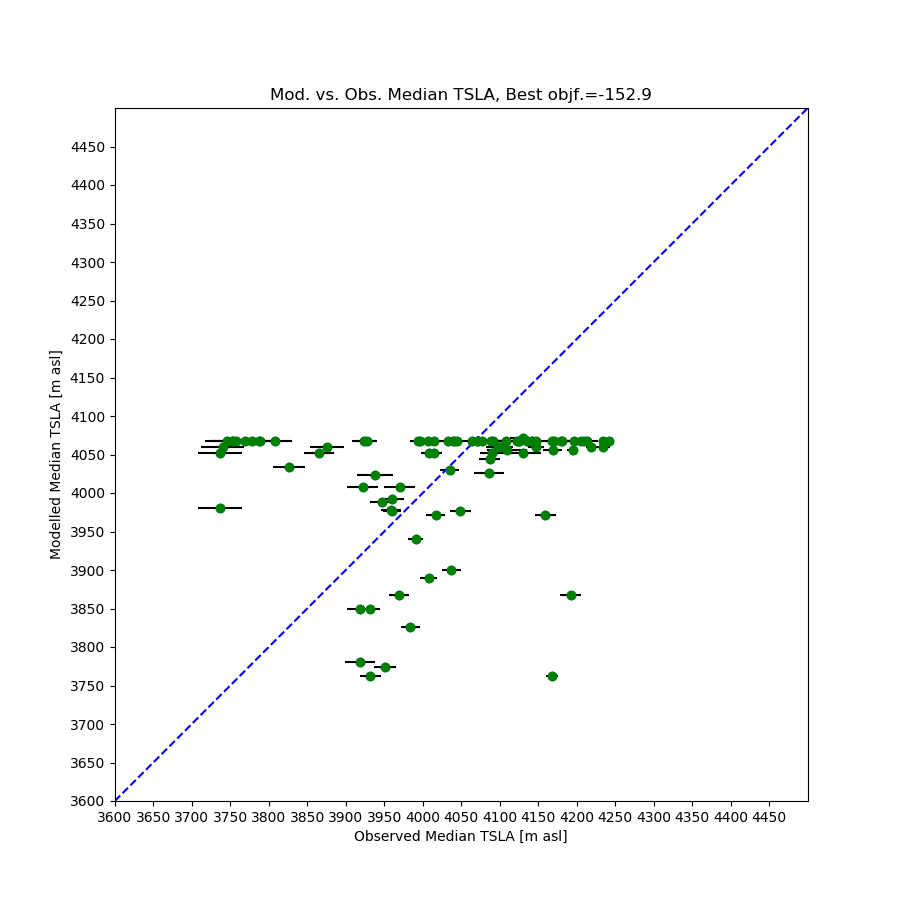
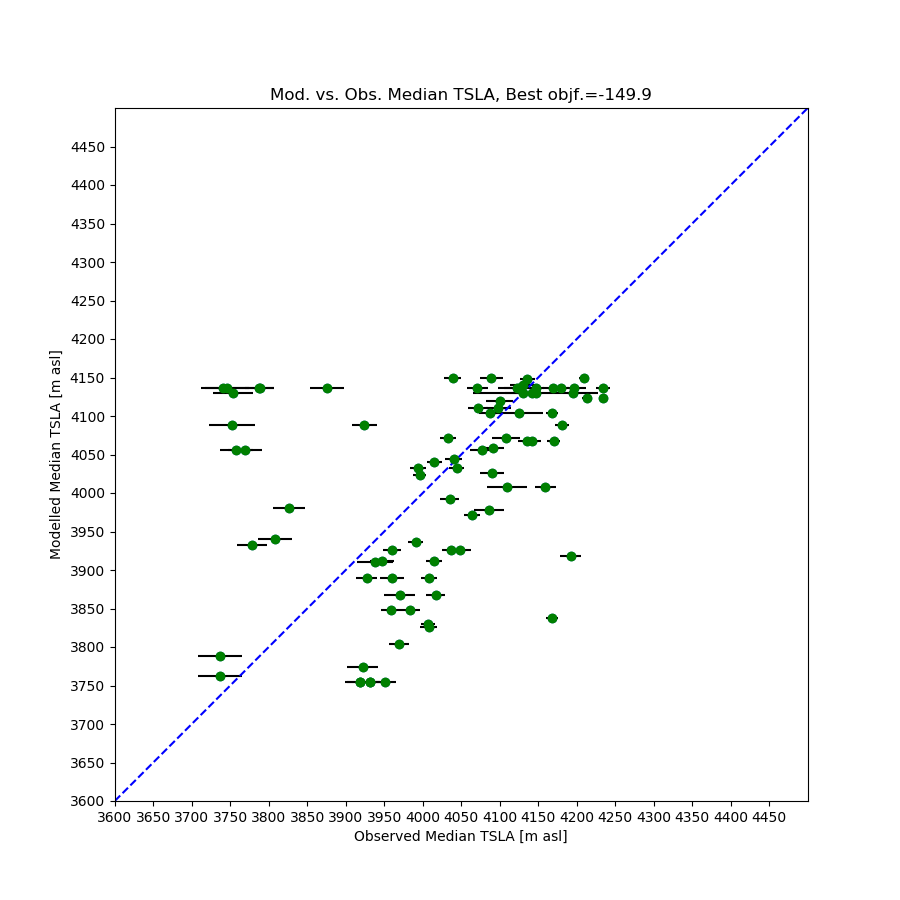
Resampling changes

diff --git a/run_spotpy_full.py b/run_spotpy_full.py
@@ -9,6 +9,6 @@ from spotpy_full import *
 import matplotlib.pyplot as plt 
 from COSIPY import main 
 
-count= 1248
-best_summary = psample(obs=obs,count=count, rep=300)
+count=1999
+best_summary = psample(obs=obs,count=count, rep=2)
 
